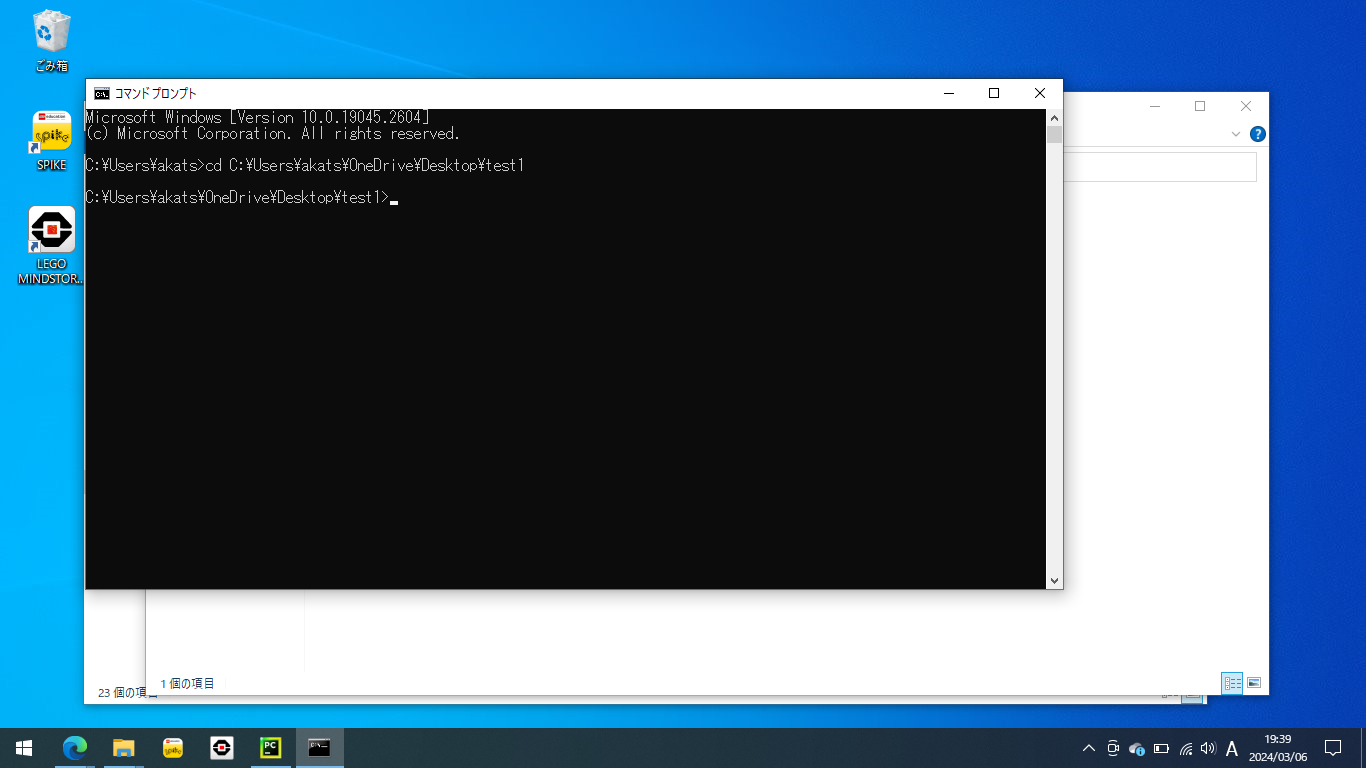
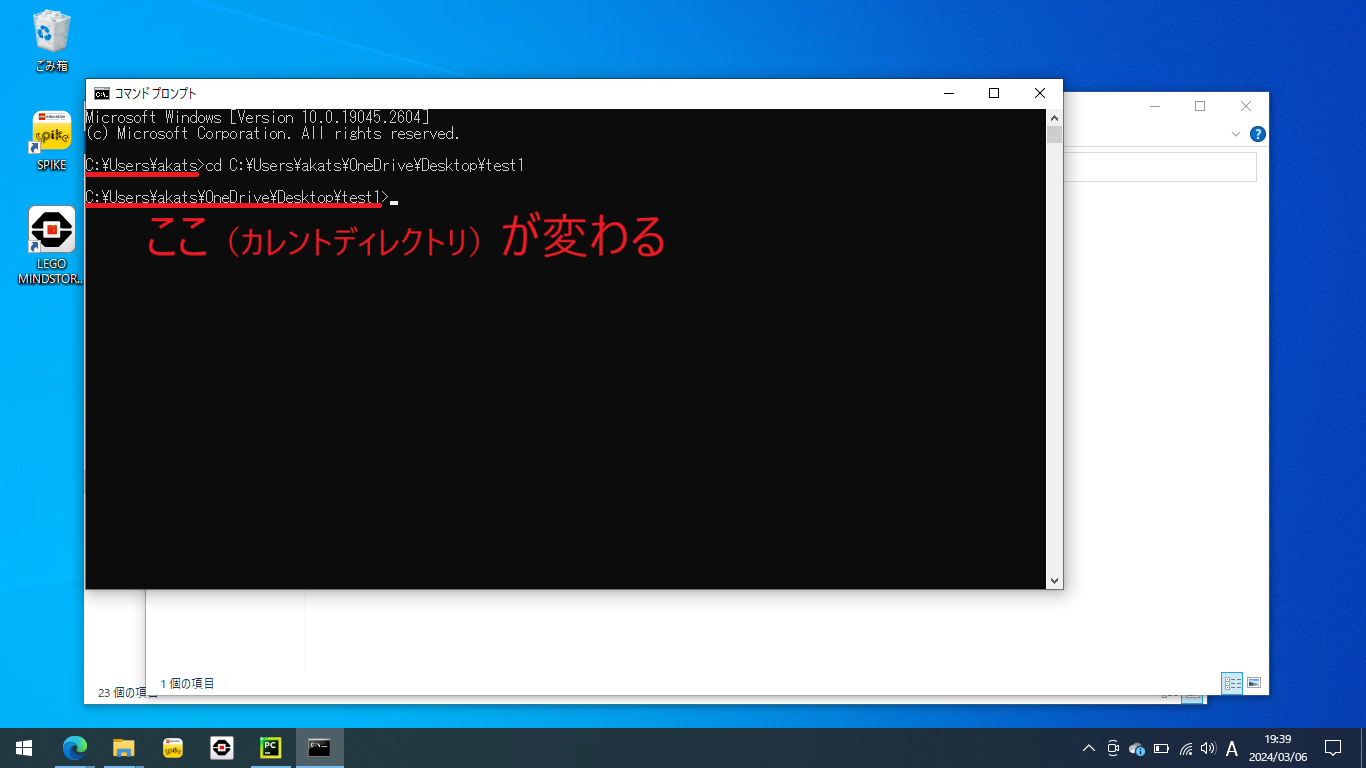
Updated

Changed region(s): [[0.0615, 0.2188, 0.3382, 0.3438], [0.369, 0.2812, 0.4919, 0.3438]]

diff --git a/docs/how-to-run-python-cli/doc.md b/docs/how-to-run-python-cli/doc.md
@@ -1,79 +1,131 @@
-# コンソール上でPythonを実行する方法
+# コンソール上でPythonを実行する方法（Windows）
 
 ここではPythonスクリプトを配置、編集、コンソール上で実行する方法を紹介します。
 
-1. スクリプトを配置するフォルダを作ります。今回はデスクトップに「test1」というフォルダを作りましょう。（もちろんほかの場所でもかまいません）
+- コンソール（コマンドプロンプト、ターミナル）はコマンドを入力してプログラムを実行するシステムです。
+- コンソールでの実行は最も原始的なPythonの実行方法です。コンソールはどのOSでも標準で搭載されているので、Python本体以外にアプリをインストールしなくてもPythonスクリプトを実行することができます。
+
+- Python標準のIDEであるIDLEや、より高級なIDEであるPyCharmなども、裏でコンソールコマンドを動かすことでPythonスクリプトを実行しています。
+
+Windowsのコマンドプロンプト：
+![img](./scr13.png)
+
+## 手順
+
+1. Pythonスクリプトを格納するフォルダを作る（省略可）
+2. フォルダの中にPythonスクリプトを記述する`.py`ファイルを作る
+3. 2で作った`.py`ファイルにプログラムを書く
+4. コンソール上のコマンド`cd <フォルダ名>`で、1で作ったフォルダ[^1]にカレントディレクトリを移動する
+5. コンソール上のコマンド`python <.pyファイル名>`で、2で作った`.py`ファイルを実行する
+
+[^1]: 1でフォルダを作っていない場合は実行する`.py`があるフォルダ
+
+## 詳細
+
+### 1. スクリプトを配置するフォルダを作る
+
+今回はデスクトップに`test1`というフォルダを作りましょう。（もちろんほかの場所でもかまいません）
 
 - デスクトップ上で右クリックし、「新規作成」から「フォルダー」をクリックします。
   ![img](./scr1.png)
-- フォルダに名前をつけます。「test1」としておきましょう。
+- フォルダに名前をつけます。`test1`としておきましょう。
   ![img](./scr2.png)
-
-2. 次に、フォルダ「test1」にPythonスクリプト「main.py」を作成します。
-
-- 先ほど作ったフォルダ「test1」を開きます。
   ![img](./scr3.png)
-- 今の状態ではフォルダの中身は空です：
+
+### 2. Pythonスクリプトを書くファイルを作る
+
+次に、フォルダ`test1`にPythonスクリプト`main.py`を作成します。
+
+- 先ほど作ったフォルダ`test1`を開きます。 今の状態ではフォルダの中身は空です：
   ![img](./scr4.png)
-- ※ここで、ファイル「main.py」を作るときに拡張子「.py」の部分を編集できるように、拡張子を表示する設定に変更します。
-- 拡張子を表示するには、上部の「表示」から「ファイル名拡張子にチェックを入れます」
+- ※ここで、ファイル`main.py`を作るときに拡張子`.py`の部分を編集できるように、拡張子を表示する設定に変更します。
+    - 上部の「表示」から「ファイル名拡張子にチェックを入れます」
     - このステップは１度設定したことがあればスキップできます。
       ![img](./scr4_1.png)
 - ファイルを作ります。右クリックして「新規作成」から「テキストドキュメント」をクリックします。
   ![img](./scr5.png)
-- ファイル名を編集します。このとき、**拡張子「○○.txt」の部分を「○○.py」に変更する必要があります**
-  。名前をすべて選択して、ファイル名を「main.py」としてください。
+- ファイル名を編集します。このとき、**拡張子`○○.txt`の部分を`○○.py`に変更する必要があります**
+  。名前をすべて選択して、ファイル名を`main.py`としてください。
   ![img](./scr6.png)
-- ファイル「main.py」作成後：（ファイル名が「main.py.txt」となっている場合は拡張子部分の変更ができていません！）
-  ![img](./scr7.png)
+- ファイル`main.py`作成後：
+    - ファイル名が`main.py.txt`となっている場合は拡張子部分の変更ができていません！
+      ![img](./scr7.png)
 
-3. 「.py」ファイルはダブルクリックで開いてしまうとプログラムとして実行されてしまい、編集ができません。右クリックから「プログラムから開く」でメモ帳などのテキストエディタで開くと編集することができます。
+### 3. プログラムを書く
+
+`main.py`にプログラムを書きます。`.py`
+ファイルはダブルクリックで開いてしまうとプログラムとして実行されてしまい、編集ができません。右クリックから「プログラムから開く」でメモ帳などのテキストエディタで開くと編集することができます。
 
 - 右クリックから「プログラムで開く」をクリックします
   ![img](./scr8.png)
 - 「その他のアプリ」をクリックします
   ![img](./scr9.png)
 - 今回は「メモ帳」で開きます。メモ帳はWindows標準のテキストエディタです。
-    - 正直プログラミングにはあまり向いていません。
-    - よく使われているエディタとしては Visual Studio Code などがあります。興味があれば調べてみてください。
+    - メモ帳は正直プログラミングにはあまり向いていません。
+    - よく使われているエディタとしては[Visual Studio Code](https://code.visualstudio.com)などがあります。
       ![img](./scr10.png)
-    - メモ帳で「main.py」を開いたもの：
+    - メモ帳で`main.py`を開いたもの：
       ![img](./scr11.png)
 
-4. サンプルプログラムとして次のプログラムを入力してみましょう。
-
-- サンプルプログラムは0から9まで１行ずつ表示するプログラムです。
-- 2行目の頭の大きな空白はインデントといい、キーボード左端のTabキーで入力できます。スペース2つやスペース4つでもかまいませんが、常に同じ数のスペースを使う必要があります。
+サンプルプログラムとして次のプログラムを入力してみましょう。
 
 ```python
 for i in range(10):
     print(i)
 ```
 
-5. プログラムが完成したら「Ctrl+S」（Ctrlキーを押してからCtrlキーを離さずにSを押す）で保存します。
+- このプログラムは0から9まで１行ずつ表示するプログラムです。
+    - 2行目の頭の大きな空白はインデントといい、キーボード左端のTabキーで入力できます。スペース2つやスペース4つでもかまいませんが、常に同じ数のスペースを使う必要があります。
+    - タブの幅はエディタによって変わるので見る人によってソースコードの見た目が変わる問題があります。より高機能なテキストエディタを使うと、タブがスペースに変換されます。
 
-- メモ帳上部の「ファイル」から「上書き保存」でも保存できます。
-- 念のためこの時、メモ帳右下端に「UTF-8」と表示されていることを確認してください。「UTF-8」は文字コードの一種で、PythonスクリプトはUTF-8の文字コードで保存する必要があります。
-    - もしも文字コードが異なる場合、メモ帳上部の「ファイル」から「名前を付けて保存」をクリックし、表示された画面下部の「文字コード」で「UTF-8」を指定します。
+- プログラムが完成したら「Ctrl+S」（Ctrlキーを押してからCtrlキーを離さずにSを押す）で保存します。
+  - メモ帳上部の「ファイル」から「上書き保存」でも保存できます。
+  - 念のためこの時、メモ帳右下端に「UTF-8」[^2]と表示されていることを確認してください。もしも文字コードが異なる場合、メモ帳上部の「ファイル」から「名前を付けて保存」をクリックし、表示された画面下部の「文字コード」で「UTF-8」を指定します。
+
+[^2]: Pythonスクリプトは常に「UTF-8」の文字コードで保存する必要があります。「UTF-8」はインターネット等でも一般的に使用されている有名な文字コードです。しかしながら、Windowsでは長い間Shift-JIS（CP932）という文字コードを使用してきた経緯があり、もしかしたら「UTF-8」でないことがあるかもしれません。
 
 ![img](./scr12.png)
 
-6. コンソール（コマンドプロンプト）を起動します。
+### 4. コンソールの起動とカレントディレクトリの設定
 
-- コマンドプロンプトの起動方法は[Pythonインストール方法](../how-to-install-python/doc.md)の「Pythonの動作確認」で最初に説明しています。
-  ![img](./scr13.png)
+コンソール（コマンドプロンプト）を起動します。
 
-7. カレントディレクトリをフォルダ「test1」に移します。
+- コマンドプロンプトの起動方法は[Pythonインストール方法](../how-to-install-python/doc.md#pythonの動作確認)
+の「Pythonの動作確認」で最初に説明しています。
 
-- 「cd 」（cとdとスペース）を入力してください。（cdのあとにスペースを忘れずに！）
-  ![img](./scr14.png)
-- フォルダ「test1」の画面を開きます。
+![img](./scr13.png)
+
+- カレントディレクトリをフォルダ`test1`に移します。
+  - カレントディレクトリを移す手順はコマンドプロンプトを起動したときだけ必要です。連続してプログラムを動かすときは不要です。
+
+次のコマンドを動かします。
+
+```commandline
+cd <Pythonスクリプトがあるフォルダへのパス>
+```
+
+- まず「cd 」（cとdとスペース）を入力してください。
+    - cdのあとにスペースを忘れずに！
+      ![img](./scr14.png)
+- フォルダ`test1`の画面に移ります。
   ![img](./scr15.png)
-- 上のアドレスバーをクリックするとフォルダ「test1」までのパスが選択されます。このパスを「Ctrl+C」でコピーします。
+- 上のアドレスバーをクリックするとフォルダ`test1`までのパスが選択されます。このパスを「Ctrl+C」でコピーします。
   ![img](./scr16.png)
-  ![img](./scr17.png)
+- コンソール画面に戻ります
   ![img](./scr18.png)
+- 「Ctrl+V」もしくは右クリックでコピーしたパスを貼り付けます
   ![img](./scr19.png)
-  ![img](./scr20.png)
-  ![img](./scr21.png
+- 「Enter」を押して、`cd`コマンドを実行します。
+    - カレントディレクトリが移動すると、コマンドを入力する`>`
+      よりも左側に書いてあるパスが変わります。これが`.py`ファイルがあるフォルダのパスになれば成功です。
+    - カレントディレクトリのファイルの一覧を表示するコマンドは`dir`です。`dir`
+      コマンドを実行すると`main.py`が表示されるはずです。
+      ![img](./scr20.png)
+
+### 5. コンソールでの`.py`ファイルの実行
+
+- コマンド`python main.py`で`main.py`を実行します。
+  ![img](./scr21.png)
+
+- 書いたプログラムの通り実行されたら成功です！
   ![img](./scr22.png)

diff --git a/docs/how-to-install-python/doc.md b/docs/how-to-install-python/doc.md
@@ -35,7 +35,7 @@
   ![img](./scr11.png)
   ![img](./scr12.png)
 
-2. 次のコマンドを実行してPythonのバージョンを確認でいます。
+2. 次のコマンドを実行してPythonのバージョンを確認できます。
 
 ```commandline
 python --version
